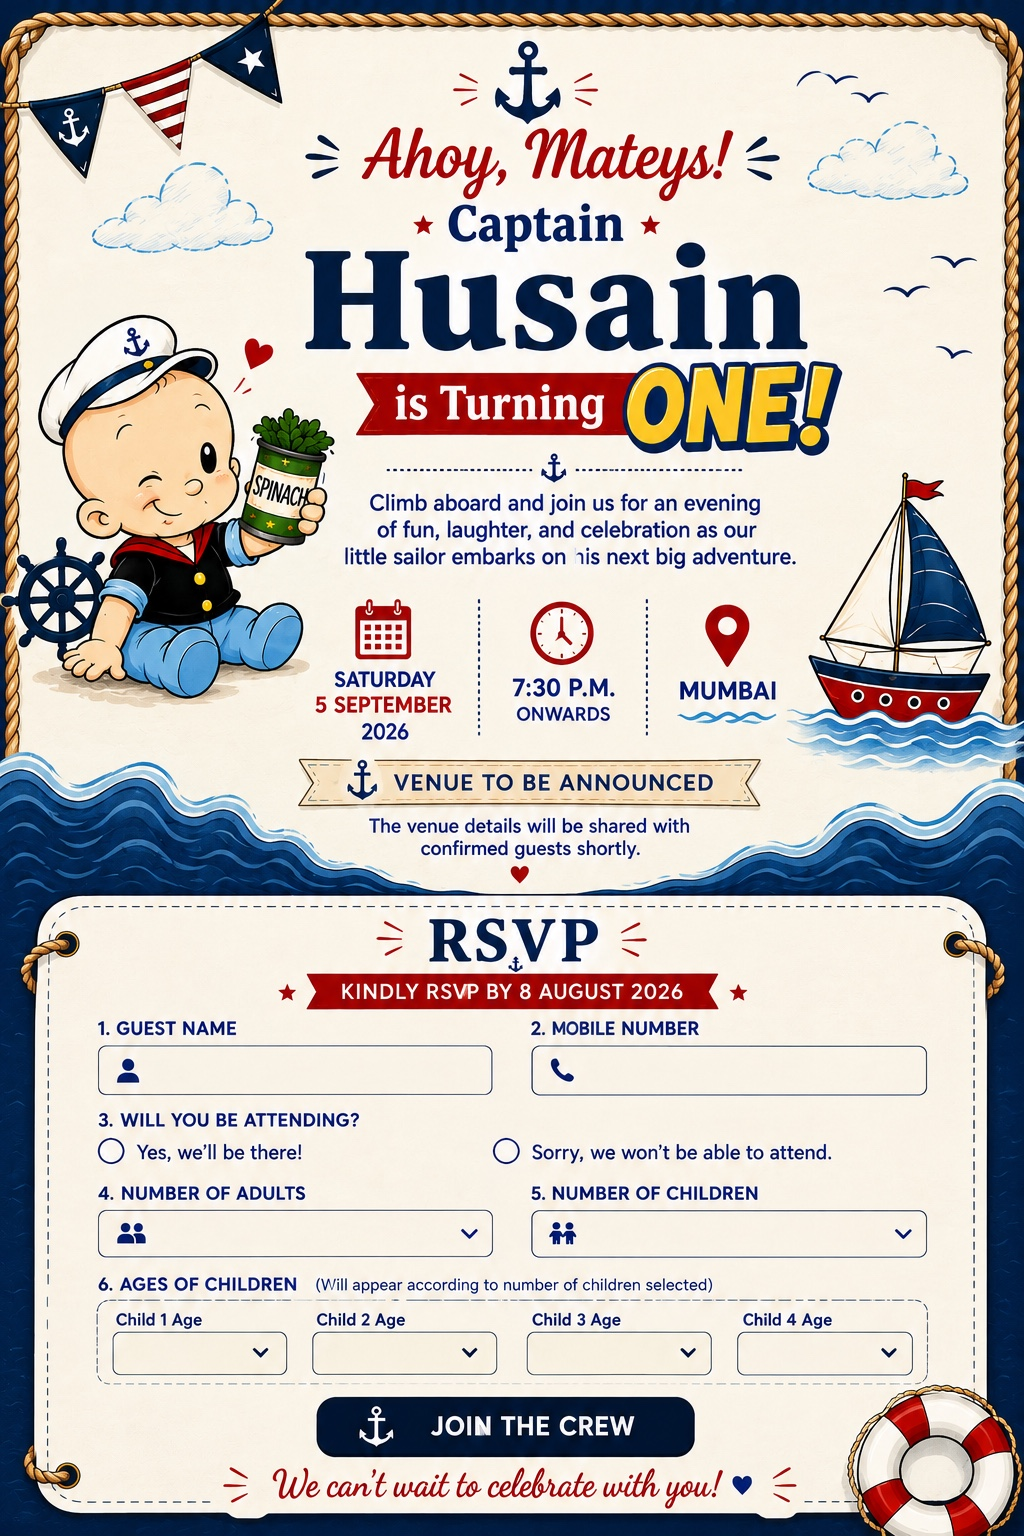
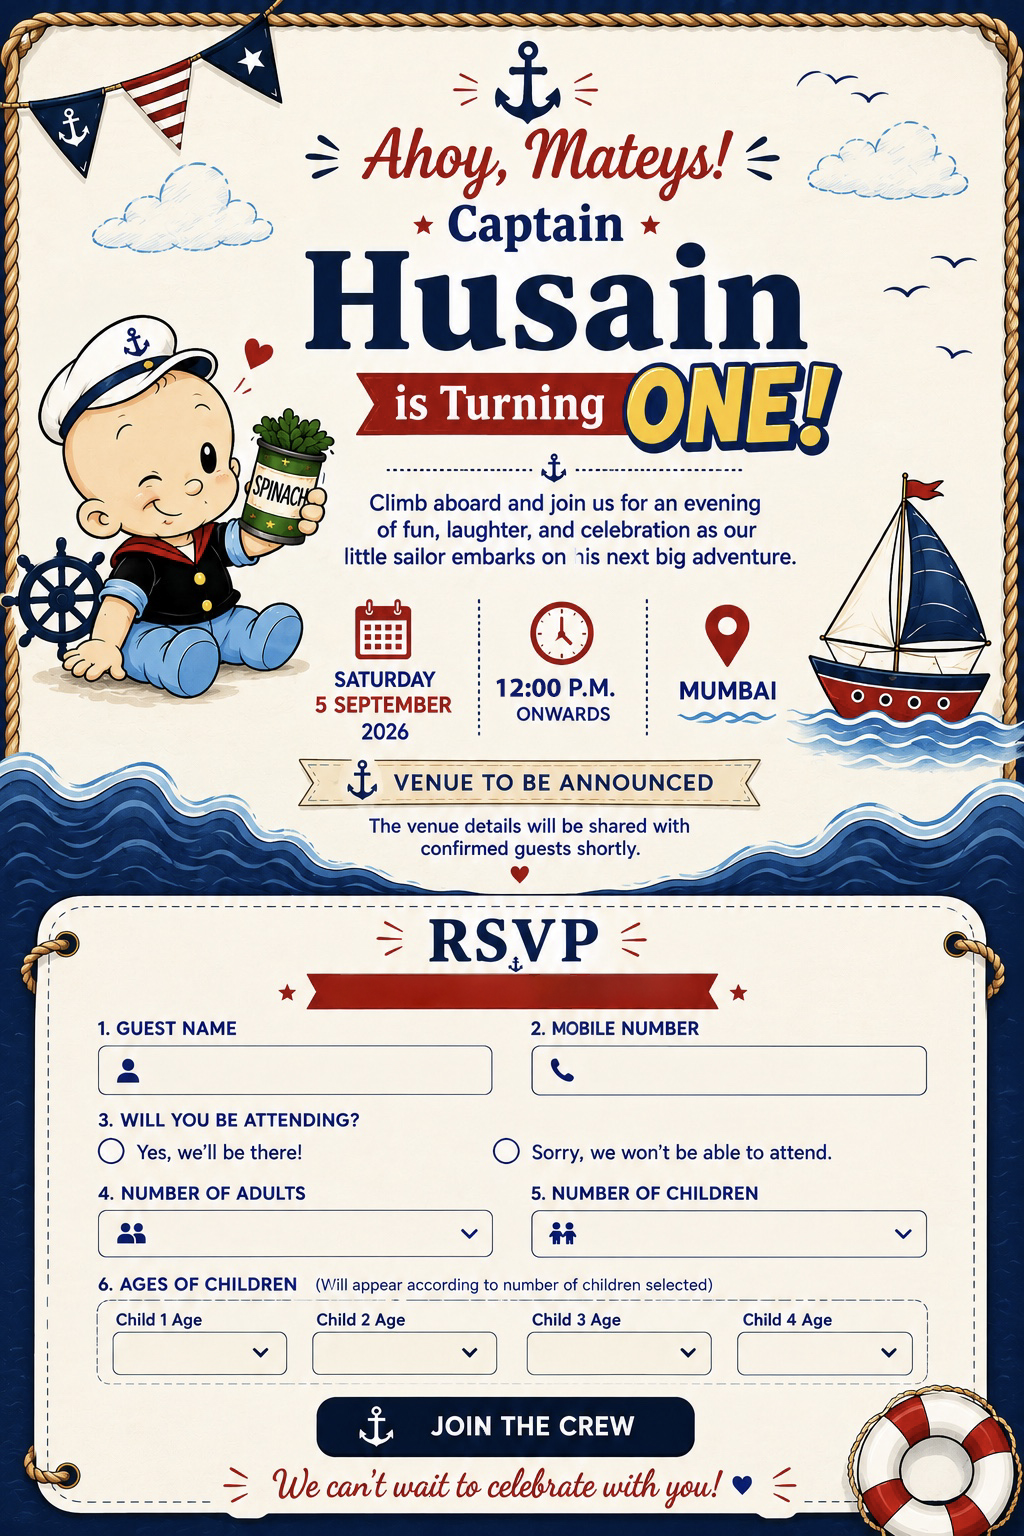
Update invitation artwork and event time to 12 PM

diff --git a/dashboard.js b/dashboard.js
@@ -153,7 +153,7 @@ function messages(){
   const cur=rows.find(r=>r.rsvpId===$("messagePreview").dataset.rsvpId),first=rows.find(r=>r.announcementStatus!=="Sent")||rows[0];preview(cur||first);
 }
 function attendance(r){const a=`${r.adults} ${r.adults===1?"adult":"adults"}`;return r.children?`${a} and ${r.children} ${r.children===1?"child":"children"}`:a}
-function msg(r){const c=data.config||{},notes=c.venueNotes?`\n\n${c.venueNotes}`:"",coords=c.latitude&&c.longitude?`https://www.google.com/maps/search/?api=1&query=${c.latitude},${c.longitude}`:"";return`Ahoy, ${r.guestName}!\n\nWe look forward to welcoming you to Captain Husain’s first birthday celebration.\n\nYour RSVP is accepted for *${attendance(r)}*.\n\nSaturday, 5 September 2026\n7:30 PM\n${c.venueName||"Venue to be announced"}\n${c.venueAddress||""}\n\nDirections:\n${c.mapsUrl||coords}${notes}\n\nWe look forward to celebrating with you and your family!`}
+function msg(r){const c=data.config||{},notes=c.venueNotes?`\n\n${c.venueNotes}`:"",coords=c.latitude&&c.longitude?`https://www.google.com/maps/search/?api=1&query=${c.latitude},${c.longitude}`:"";return`Ahoy, ${r.guestName}!\n\nWe look forward to welcoming you to Captain Husain’s first birthday celebration.\n\nYour RSVP is accepted for *${attendance(r)}*.\n\nSaturday, 5 September 2026\n12:00 PM\n${c.venueName||"Venue to be announced"}\n${c.venueAddress||""}\n\nDirections:\n${c.mapsUrl||coords}${notes}\n\nWe look forward to celebrating with you and your family!`}
 function preview(r){if(!r)return;$("messagePreview").value=msg(r);$("messagePreview").dataset.rsvpId=r.rsvpId}
 function phone(v){const d=String(v||"").replace(/\D/g,""),cc=$("countryCodeInput").value.replace(/\D/g,"")||"91";return d.length===10?cc+d:d.startsWith("0")&&d.length===11?cc+d.slice(1):d}
 function openGuestWhatsApp(r){if(!r)return;const c=data.config||{},published=c.publishVenue??c.venueAnnounced;if(!published||!c.venueName||(!c.mapsUrl&&(!c.latitude||!c.longitude))){tab("venue");return toast("Save and publish venue first.",true)}preview(r);window.open(`https://wa.me/${phone(r.mobileNumber)}?text=${encodeURIComponent(msg(r))}`,"_blank","noopener")}

diff --git a/script.js b/script.js
@@ -288,7 +288,7 @@ async function loadPublicConfig() {
 
     venueName.textContent = config.venueName || "Venue announced";
     setVenueDate(config.venueDate || config.date);
-    venueTime.textContent = config.venueTime || config.time || "7:30 PM";
+    venueTime.textContent = config.venueTime || config.time || "12:00 PM";
     venueAddress.textContent = config.venueAddress || "";
 
     if (latitude !== null && longitude !== null) {

diff --git a/index.html b/index.html
@@ -11,7 +11,7 @@
   <main class="page-shell">
     <form id="rsvpForm" class="invitation" novalidate>
       <img
-        src="husain-rsvp-background.jpeg"
+        src="husain-rsvp-background.jpeg?v=20260819"
         class="invitation-image"
         alt="Captain Husain's first birthday invitation"
         draggable="false"
